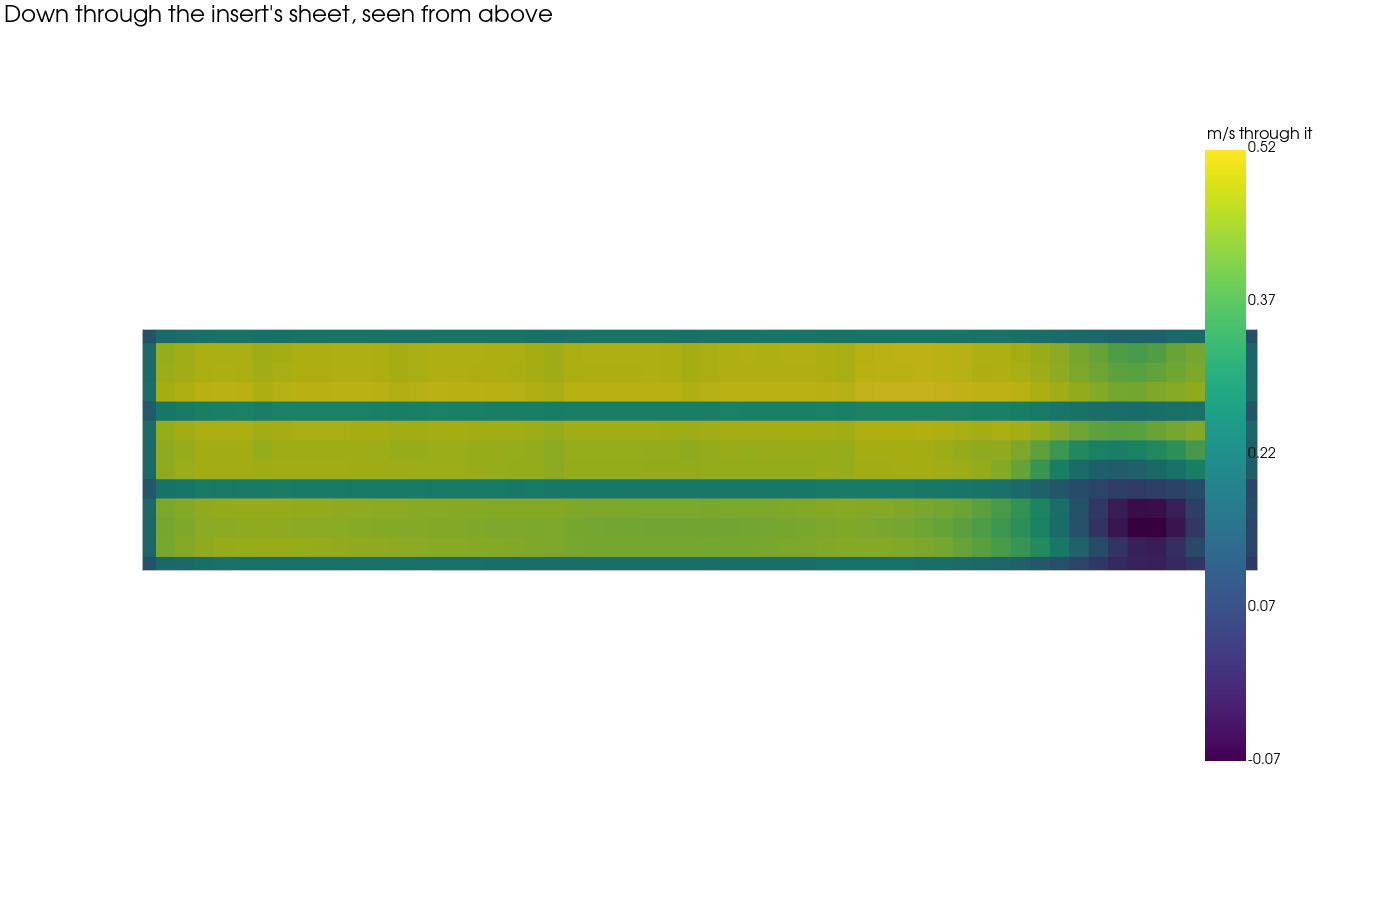
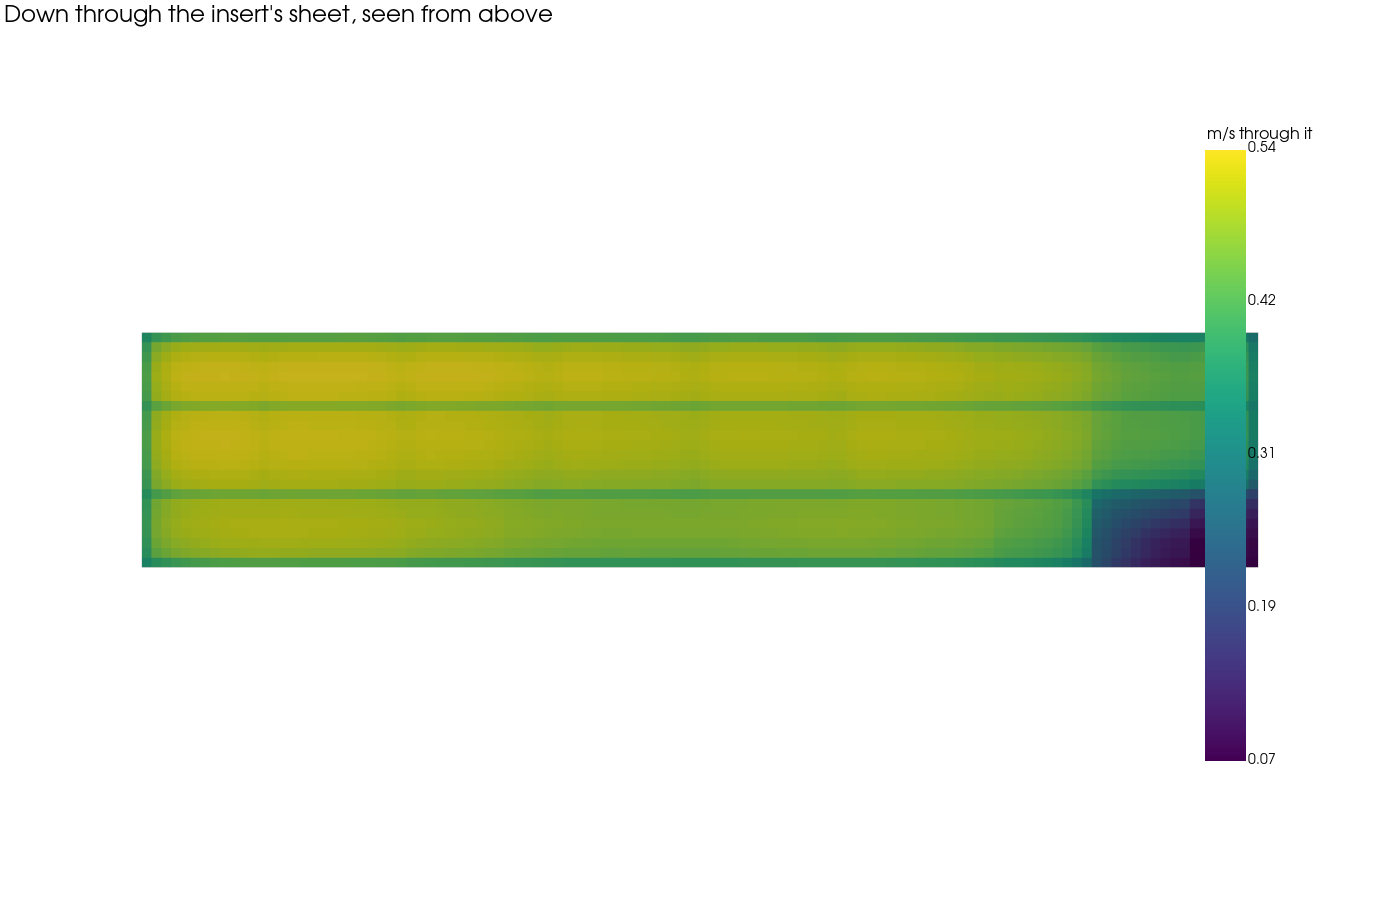
docs(lunchbox): the airflow checked on a 1 mm mesh
With the insert, on 1 mm cells instead of 2: the filtered air comes
out within 2 % (1.33 L/s through the grid instead of 1.30), and the
wire hole's leak grows to 0.47 L/s from 0.37, as its 2 mm recess is
better resolved - the build page now says a fifth to a quarter of the
fans' air comes in there. The sheet's statistics come from the 1 mm
run: at 2 mm its five millimetres were two and a half cells, and the
average took in cells half inside the support grid.

The case generator was losing results: the tracer wrote its field every
iteration, a time folder each, and an end time between two writes
saved nothing after the last one. The tracer now writes at write times
only, and the end time must be a multiple of the write interval.

Changed region(s): [[0.0921, 0.3422, 0.86, 0.6533], [0.8907, 0.3733, 0.9214, 0.6533], [0.8907, 0.84, 0.9214, 0.8711]]

diff --git a/sim/lunchbox-cfd/cfd.py b/sim/lunchbox-cfd/cfd.py
@@ -286,9 +286,13 @@ mergeTolerance 1e-6;
         log false; writeFields false; regionType faceZone; name {f};
         operation weightedAverage; weightField phi; fields (s);
     }}""" for f in faces]
+    end, every = (1500 if fine else 1000), 250
+    # The solver writes its fields only every `every` iterations; an end between two writes leaves the last
+    # stretch unsaved - a 1600-iteration run kept nothing past 1500.
+    assert end % every == 0, "endTime must be a multiple of writeInterval"
     write(case, "system/controlDict", f"""application simpleFoam;
-startFrom latestTime; startTime 0; stopAt endTime; endTime {1600 if fine else 1000}; deltaT 1;
-writeControl timeStep; writeInterval 250; purgeWrite 2; writeFormat binary; writePrecision 8;
+startFrom latestTime; startTime 0; stopAt endTime; endTime {end}; deltaT 1;
+writeControl timeStep; writeInterval {every}; purgeWrite 2; writeFormat binary; writePrecision 8;
 writeCompression off; timeFormat general; timePrecision 6; runTimeModifiable true;
 functions
 {{
@@ -303,6 +307,9 @@ functions
     tracer
     {{
         type scalarTransport; libs (solverFunctionObjects); field s; nut nut; alphaD 1; alphaDt 1;
+        // Only at the solver's own write times. Left to itself it writes s every iteration, a time folder
+        // per step, and purgeWrite then counts those and deletes the real results.
+        writeControl writeTime;
         fvOptions
         {{
 {chr(10).join(f'            fixAtFan{i} {{ type scalarFixedValueConstraint; selectionMode cellZone; cellZone fan{i}; fieldValues {{ s 1; }} }}' for i in range(1, len(nums['fans']) + 1))}

diff --git a/docs/lunchbox-scrubber.md b/docs/lunchbox-scrubber.md
@@ -97,19 +97,22 @@ flow more than anything else: the numbers are for a mid-grade paper.
 | ...of it in at the wire hole, unfiltered | 0.36 L/s | 0.37 L/s |
 | What the fans work against | 83 Pa | 84 Pa |
 
-- **The insert costs about 9 % of the filtered air**: its sheet takes 10 Pa, against 65-75 Pa through the
-  HEPA paper. At 1.27 L/s the scrubber filters a 180 L chamber's volume every 2.4 minutes.
-- **All the air from the channel goes through the sheet**, at 0.35 m/s on average (0.52 at most), evenly
-  along most of its length; it weakens towards the +x end, the wire hole's side.
+- **The insert costs about 9 % of the filtered air**: its sheet takes 10-13 Pa, against 65-75 Pa through
+  the HEPA paper. At 1.27 L/s the scrubber filters a 180 L chamber's volume every 2.4 minutes.
+- **All the air from the channel goes through the sheet**, evenly: 0.47 m/s on average, 0.54 at most, and
+  nowhere below 0.07.
 
-  ![The sheet from above: even along most of its length, weak at the +x end](lunchbox/cfd/sheet.png)
+  ![The sheet from above: evenly loaded](lunchbox/cfd/sheet.png)
+- **Checked on a finer mesh** (1 mm instead of 2, with the insert): the filtered air comes out within 2 % -
+  1.33 L/s instead of 1.30. The wire hole's leak grows, 0.47 L/s instead of 0.37, as its 2 mm recess is
+  better resolved: if anything, the table under-states it.
 
 ### Two leaks, both downstream of the filters
 
 **The wire hole.** The fan section's floor has a hole for the fans' wires, in its back right corner, and a
 recess under it, 2 mm deep, open to the end and the back. Standing on a flat floor, that recess is a duct
-straight into the plenum, under every filter, with the fans pulling 84 Pa on it: **about a fifth of the air
-the fans move comes in there, unfiltered.** Seal it round the wires - a plug of putty or tape - before
+straight into the plenum, under every filter, with the fans pulling 84 Pa on it: **a fifth to a quarter of
+the air the fans move comes in there, unfiltered.** Seal it round the wires - a plug of putty or tape - before
 anything else.
 
 **Over the HEPA frame.** The holder is 76.0 mm tall and the frame 73.4, so a 2.6 mm slot runs over the

diff --git a/sim/lunchbox-cfd/README.md b/sim/lunchbox-cfd/README.md
@@ -72,5 +72,9 @@ committed; the pictures and summaries the build page quotes are in `docs/lunchbo
   second opening, under the back wall, was found.
 - **Every flow split by where it goes** - through the HEPA paper, beside its frame, over it - on planes
   clipped to each region, not averaged over a whole cut.
-- **The sheet's pressure drop matches its own model** (10.1 Pa in the run, 9.2 by the floss coefficient at
-  its mean speed), and **the total flow agrees with the lumped model** in `cfd.py network`.
+- **The sheet's pressure drop matches its own model** (13.2 Pa on the 1 mm mesh, 12.4 by the floss
+  coefficient at its mean speed of 0.47 m/s), and **the total flow agrees with the lumped model** in
+  `cfd.py network`.
+- **The mesh does not decide it:** the 1 mm run's filtered flow is within 2 % of the 2 mm run's. Thin
+  features are another matter - read a face's statistics from the 1 mm run, where a 5 mm sheet is five
+  cells and not two and a half.
